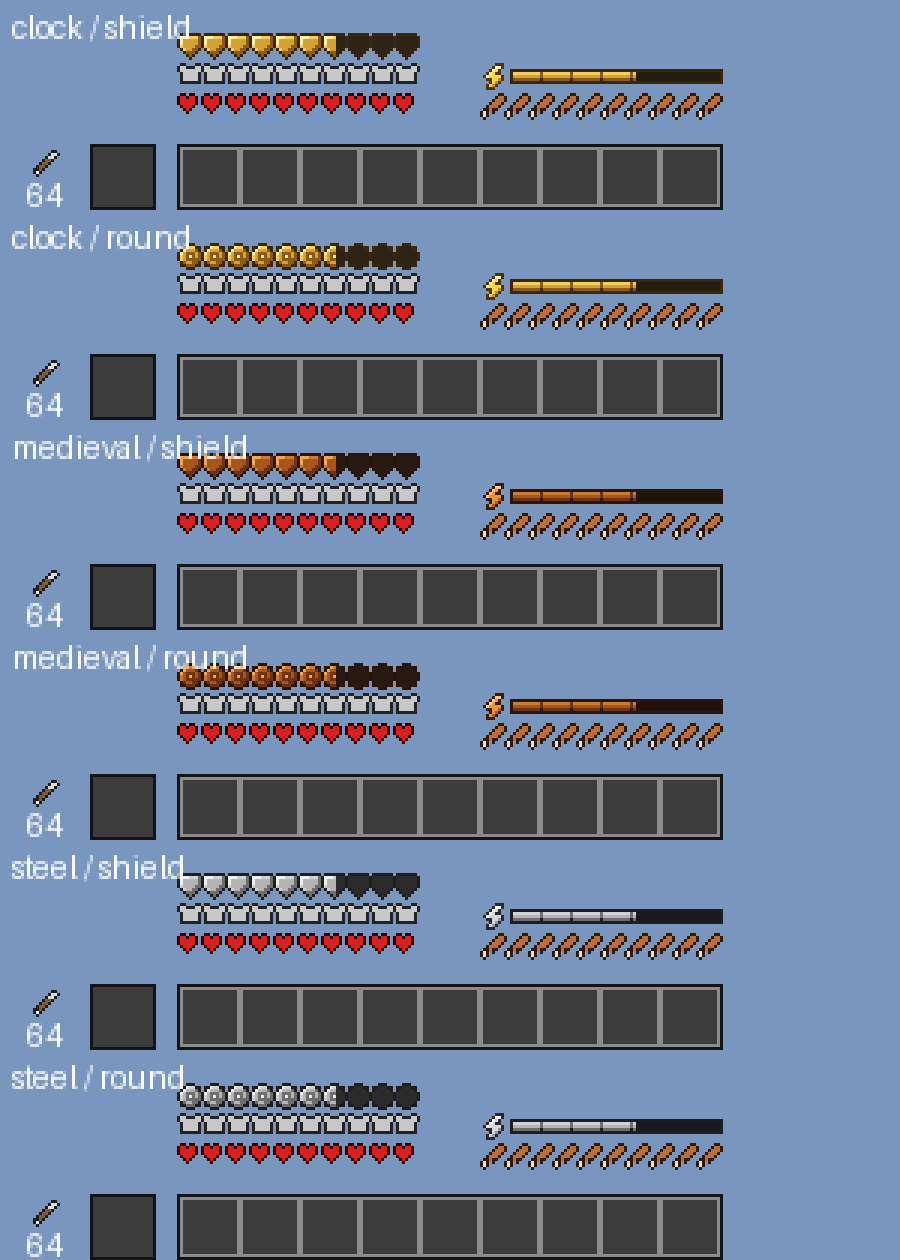
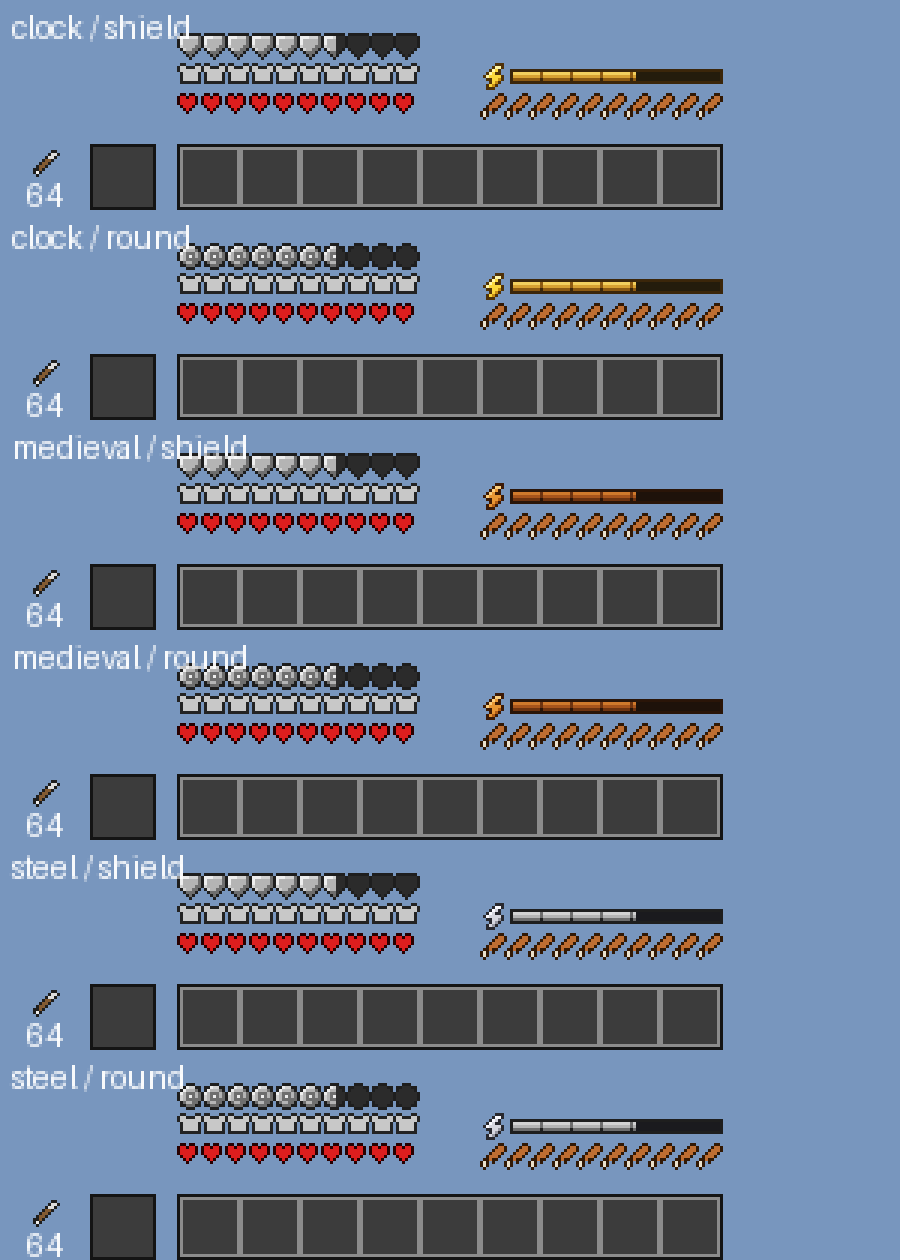
Shields always steel grey; the style colours only the energy bar
The author's choice. The shield icons live once in art/refined/hud/shields/;
the style folders keep the energy bar and its lightning. The settings button
is "Energy colour" now.

Claude-Session: https://claude.ai/code/session_01LZLMktypG5G7QCi3Z3p4XV

diff --git a/moves/src/main/java/dev/mcreload/moves/client/MovesHud.java b/moves/src/main/java/dev/mcreload/moves/client/MovesHud.java
@@ -21,9 +21,9 @@ import net.minecraftforge.client.gui.overlay.VanillaGuiOverlay;
 import java.util.Locale;
 
 /**
- * The bars (docs/combat-spec.md, 9): shields as a row of icons on the left above armour, energy as
- * a bar with a lightning icon on the right above hunger (sides swap in the settings), and an arrow
- * counter left of the hotbar while a bow is in hand.
+ * The bars (docs/combat-spec.md, 9): shields as a row of grey icons on the left above armour,
+ * energy as a bar with a lightning icon on the right above hunger, coloured in the chosen style
+ * (sides swap in the settings), and an arrow counter left of the hotbar while a bow is in hand.
  *
  * <p>Rows take their place through Forge's shared row count ({@code leftHeight} / {@code
  * rightHeight}), so other mods' rows (thirst, extra hearts...) stack above or below ours instead of
@@ -95,7 +95,7 @@ public final class MovesHud {
         for (int i = 0; i < icons; i++) {
             float left = shields - i;
             String state = left >= 1f ? "full" : left >= 0.5f ? "half" : "empty";
-            g.blit(tex(shape + "_" + state), x + (i % 10) * 8, top - (i / 10) * 10, 0, 0, 9, 9, 9, 9);
+            g.blit(shieldTex(shape + "_" + state), x + (i % 10) * 8, top - (i / 10) * 10, 0, 0, 9, 9, 9, 9);
         }
         RenderSystem.disableBlend();
         return ((icons - 1) / 10 + 1) * 10;
@@ -158,8 +158,14 @@ public final class MovesHud {
         g.drawString(mc.font, text, x + 8 - mc.font.width(text) / 2, height - 11, color, true);
     }
 
+    /** Energy bar textures, in the chosen style. */
     private static ResourceLocation tex(String name) {
         return new ResourceLocation(KinetrixMoves.MODID, "textures/gui/hud/" + HudConfig.style().name().toLowerCase(Locale.ROOT) + "/" + name + ".png");
+    }
+
+    /** Shield icons: always steel grey, whatever the style (the author's choice). */
+    private static ResourceLocation shieldTex(String name) {
+        return new ResourceLocation(KinetrixMoves.MODID, "textures/gui/hud/shields/" + name + ".png");
     }
 
     private MovesHud() {}

diff --git a/art/refined/hud/make_hud.py b/art/refined/hud/make_hud.py
@@ -2,9 +2,10 @@
 
     python3 art/refined/hud/make_hud.py
 
-writes, for every style (clock, medieval, steel), into art/refined/hud/<style>/:
+writes into art/refined/hud/shields/ (shields are always steel grey, the author's choice):
     shield_full|half|empty.png        9x9, the heater shield of art/author/hud/shield.png
     round_full|half|empty.png         9x9, the round shield of art/author/hud/shield_round.png
+for every style of the energy bar (clock, medieval, steel), into art/refined/hud/<style>/:
     energy_icon.png, energy_icon_infinite.png       9x9 lightning
     energy_bar_bg.png, energy_bar_fill.png, energy_bar_fill_infinite.png   71x5
 and art/refined/hud/preview.png: the styles on a mock vanilla HUD, 3x.
@@ -153,13 +154,21 @@ def bar(c, kind, w=71, h=5):
 
 def build():
     out = {}
+    shields = {}
+    d = os.path.join(HERE, "shields")
+    os.makedirs(d, exist_ok=True)
+    for state in ("full", "half", "empty"):
+        shields[f"shield_{state}"] = icon(STYLES["steel"], HEATER, state)
+        shields[f"round_{state}"] = icon(STYLES["steel"], round_mask(), state, boss=True)
+    for k, im in shields.items():
+        im.save(os.path.join(d, k + ".png"))
     for name, c in STYLES.items():
         d = os.path.join(HERE, name)
         os.makedirs(d, exist_ok=True)
+        for old in os.listdir(d):
+            if old.startswith(("shield_", "round_")):
+                os.remove(os.path.join(d, old))   # shields moved to shields/
         tex = {}
-        for state in ("full", "half", "empty"):
-            tex[f"shield_{state}"] = icon(c, HEATER, state)
-            tex[f"round_{state}"] = icon(c, round_mask(), state, boss=True)
         tex["energy_icon"] = bolt(c)
         tex["energy_icon_infinite"] = bolt(c, True)
         tex["energy_bar_bg"] = bar(c, "bg")
@@ -167,6 +176,7 @@ def build():
         tex["energy_bar_fill_infinite"] = bar(c, "infinite")
         for k, im in tex.items():
             im.save(os.path.join(d, k + ".png"))
+        tex.update(shields)
         out[name] = tex
     preview(out)
     return out

diff --git a/moves/src/main/java/dev/mcreload/moves/HudConfig.java b/moves/src/main/java/dev/mcreload/moves/HudConfig.java
@@ -17,8 +17,8 @@ public final class HudConfig {
     static {
         ForgeConfigSpec.Builder b = new ForgeConfigSpec.Builder();
         b.push("hud");
-        STYLE = b.comment("Colours of the shields and the energy bar: CLOCK (gold and steel of the vanilla clock),",
-                        "MEDIEVAL (dark orange, medieval RPG) or STEEL.")
+        STYLE = b.comment("Colours of the energy bar: CLOCK (gold of the vanilla clock), MEDIEVAL (dark orange,",
+                        "medieval RPG) or STEEL. The shields are always steel grey.")
                 .defineEnum("style", Style.CLOCK);
         SHAPE = b.comment("Shield icon: HEATER (a heraldic shield) or ROUND.").defineEnum("shieldShape", Shape.HEATER);
         SWAP_SIDES = b.comment("Shields on the right above hunger and energy on the left above armour (normally the other way round).")

diff --git a/art/refined/hud/README.md b/art/refined/hud/README.md
@@ -4,14 +4,15 @@
 
 | Файл | Что это |
 |---|---|
-| `<стиль>/shield_full`, `shield_half`, `shield_empty` | щит (геральдический, как `art/author/hud/shield.png`), 9×9 как ванильные сердца и броня |
-| `<стиль>/round_full`, `round_half`, `round_empty` | круглый щит с умбоном (как `art/author/hud/shield_round.png`), 9×9 |
+| `shields/shield_full`, `shield_half`, `shield_empty` | щит (геральдический, как `art/author/hud/shield.png`), 9×9 как ванильные сердца и броня; всегда серый |
+| `shields/round_full`, `round_half`, `round_empty` | круглый щит с умбоном (как `art/author/hud/shield_round.png`), 9×9; всегда серый |
 | `<стиль>/energy_icon`, `energy_icon_infinite` | молния в начале полоски энергии; светлая — когда энергия бесконечна (золотые яблоки) |
 | `<стиль>/energy_bar_bg`, `energy_bar_fill`, `energy_bar_fill_infinite` | полоска энергии 71×5 (высота полоски опыта), с делениями как на референсе автора |
 | `preview.png` | как это выглядит на месте (ванильные части на картинке — грубая подделка, для масштаба) |
 
-Стили: `clock` — гамма ванильных часов (золото), `medieval` — тёмный оранжевый, `steel` — серая
-сталь эскизов автора. Стиль и форма щита выбираются в меню мода.
+Стили полоски энергии: `clock` — гамма ванильных часов (золото), `medieval` — тёмный оранжевый,
+`steel` — серая сталь. Щиты всегда серые, в стали эскизов автора (решение автора). Стиль полоски и
+форма щита выбираются в меню мода.
 
 Что изменено по сравнению с эскизами:
 - **Размер.** 16×16 → 9×9: в ряду ванильных значков 16×16 торчали бы.

diff --git a/docs/combat-spec.md b/docs/combat-spec.md
@@ -188,9 +188,9 @@
 - **С другими модами** не накладывается: полоски воды, доп. сердец и прочего встают по очереди
   через общий для модов счёт высоты полосок Forge (`leftHeight`/`rightHeight`).
 - **Стили на выбор** (в меню мода, как `/kinetrix`):
-  - в гамме ванильных часов (золото и сталь);
-  - тёмный оранжевый «средневековый RPG»;
-  - для щитов два вида значка: геральдический щит и круглый.
+  - цвет полоски энергии: в гамме ванильных часов (золото), тёмный оранжевый «средневековый RPG»
+    или серая сталь;
+  - **щиты всегда серые** (решение автора), на выбор два вида значка: геральдический щит и круглый.
 - **Отсчёт бесконечной энергии** (золотые яблоки) виден на полоске — она светится.
 - **Текстуры:** эскизы автора лежат в `art/author/hud/`, доработанные — в `art/refined/hud/`.
 
@@ -200,5 +200,6 @@
 - Отбитая стрела тратит и щиты, и энергию.
 - Числа **[по умолчанию]** подходят для начала.
 - `celebrate` — просто эмоция, без механики.
+- Щиты всегда серые, цветная — только полоска энергии.
 - Длину `hop` под механику решать при доработке. Главное — чтобы анимацию было видно и она не была
   мгновенной.

diff --git a/moves/README.md b/moves/README.md
@@ -19,7 +19,7 @@
 | Энергия | тратится на движения, восстанавливается из еды по правилам автора, золотые яблоки |
 | Щиты | 10, восстанавливаются по 0.5 раз в 4 с за 5 энергии (тратить их будут блоки, следующий этап) |
 | Интерфейс | щиты слева над бронёй, энергия справа над голодом, счётчик стрел у хотбара с луком |
-| Настройки | `/kinetrix_moves` или кнопка «Настроить» в списке модов: стиль, вид щита, стороны, счётчик стрел |
+| Настройки | `/kinetrix_moves` или кнопка «Настроить» в списке модов: цвет полоски энергии (щиты всегда серые), вид щита, стороны, счётчик стрел |
 
 Клавиши R и C переназначаются в настройках управления (C — это клавиша ползания Kinetrix).
 
